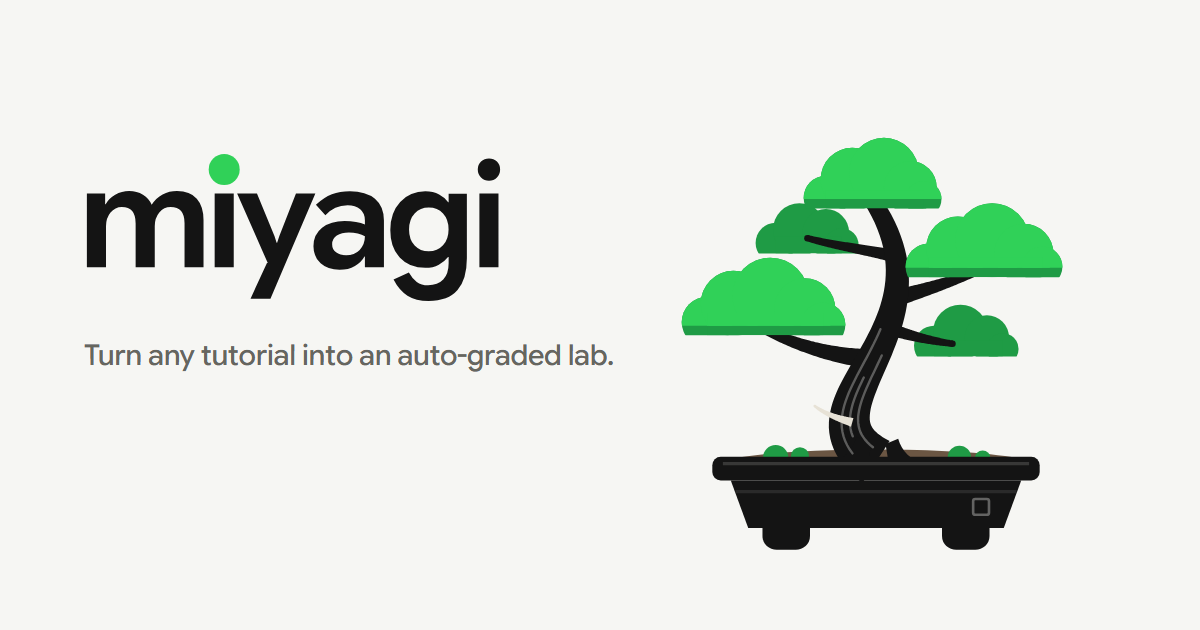
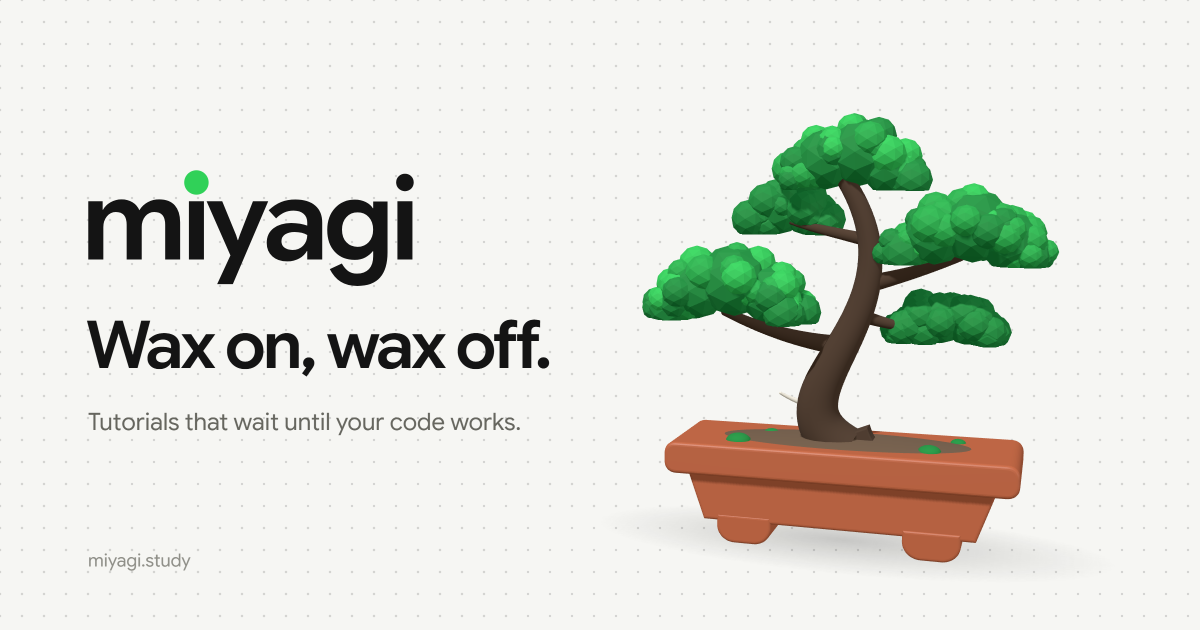
Use a 3D render for the link preview image
og-image.png is now a 1200x630 render of the shadowed 3D bonsai beside
the wordmark and "Wax on, wax off." on the dotted paper, replacing the
flat brand cover. Adds og:image size and alt tags and twitter:image, and
versions the image URL so cached previews refresh.

diff --git a/index.html b/index.html
@@ -9,9 +9,13 @@
   <meta property="og:title" content="Miyagi">
   <meta property="og:description" content="Wax on, wax off.">
   <meta property="og:url" content="https://miyagi.study/">
-  <meta property="og:image" content="https://miyagi.study/og-image.png">
+  <meta property="og:image" content="https://miyagi.study/og-image.png?v=3d">
+  <meta property="og:image:width" content="1200">
+  <meta property="og:image:height" content="630">
+  <meta property="og:image:alt" content="The Miyagi bonsai in 3D next to the words: miyagi. Wax on, wax off.">
   <meta property="og:type" content="website">
   <meta name="twitter:card" content="summary_large_image">
+  <meta name="twitter:image" content="https://miyagi.study/og-image.png?v=3d">
   <link rel="icon" href="/favicon.svg" type="image/svg+xml">
   <link rel="icon" href="/favicon.ico" sizes="any">
   <link rel="apple-touch-icon" href="/apple-touch-icon.png">
